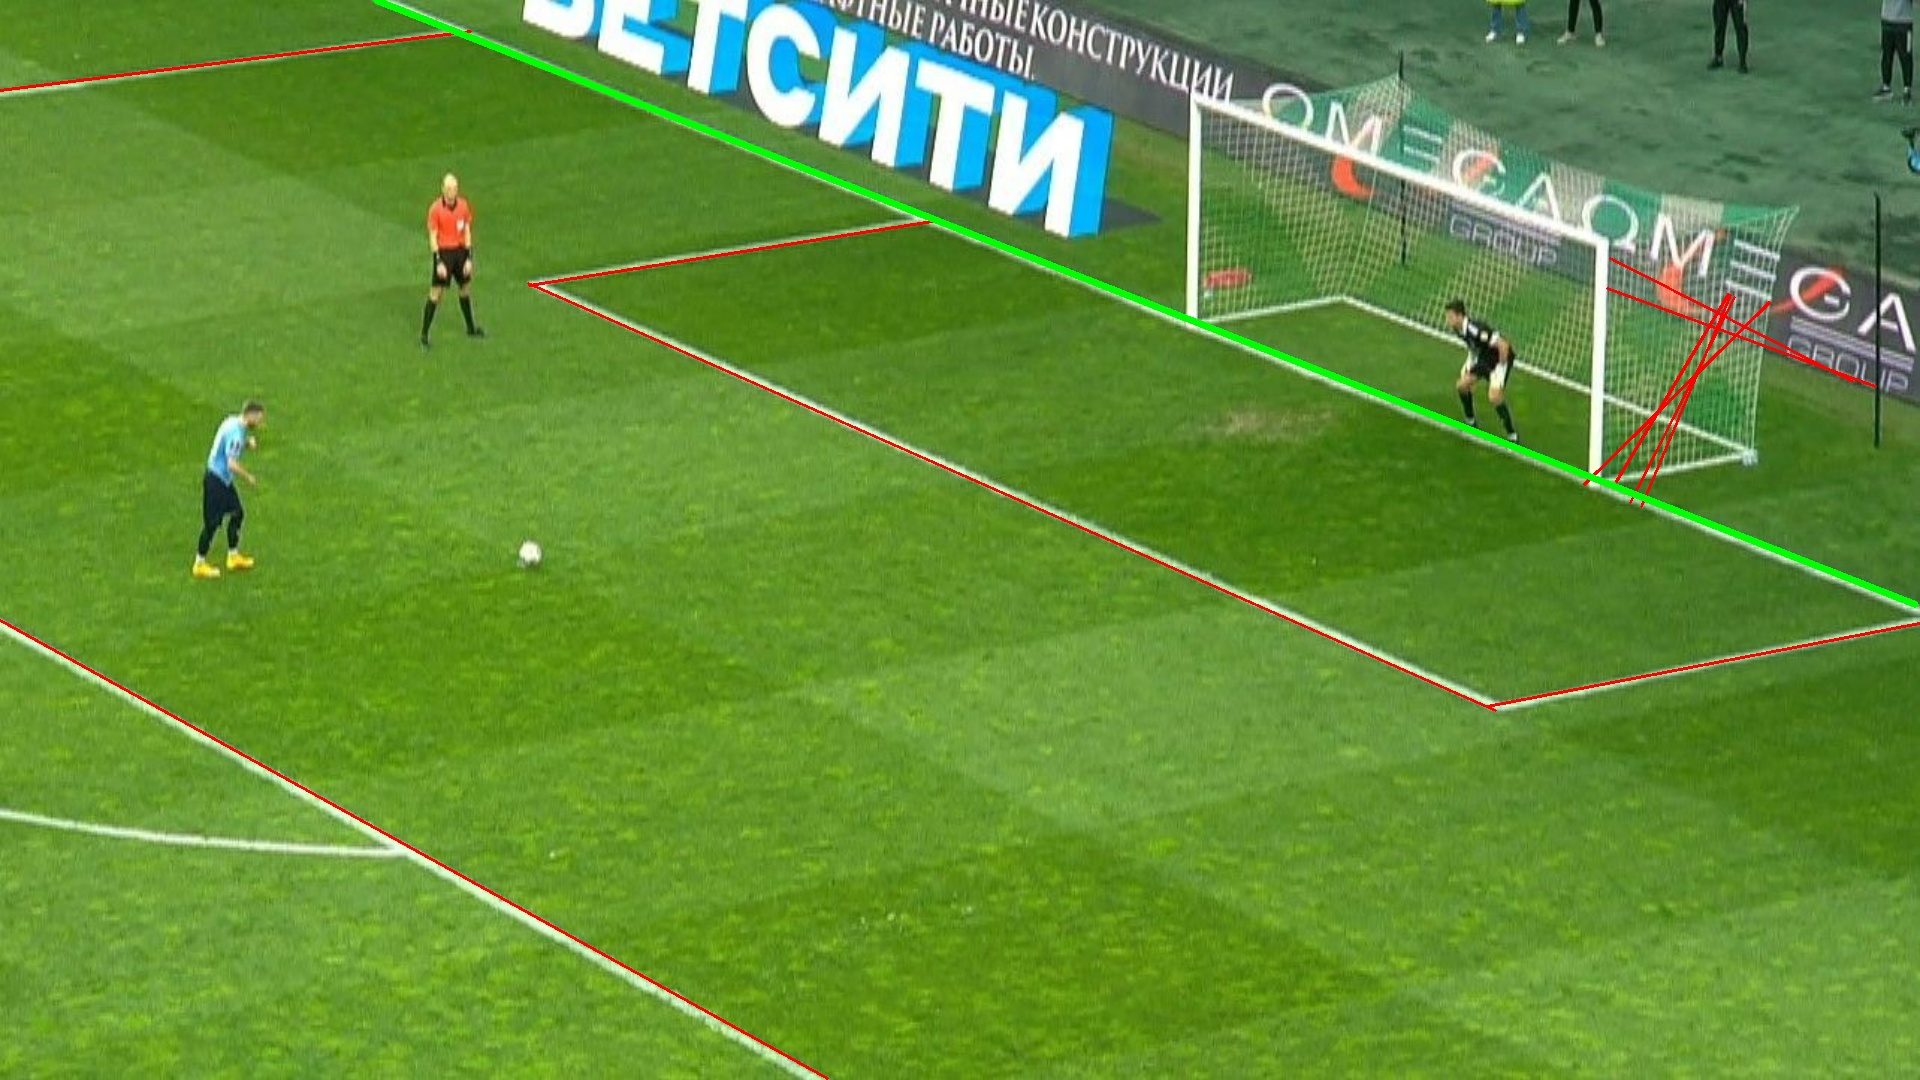
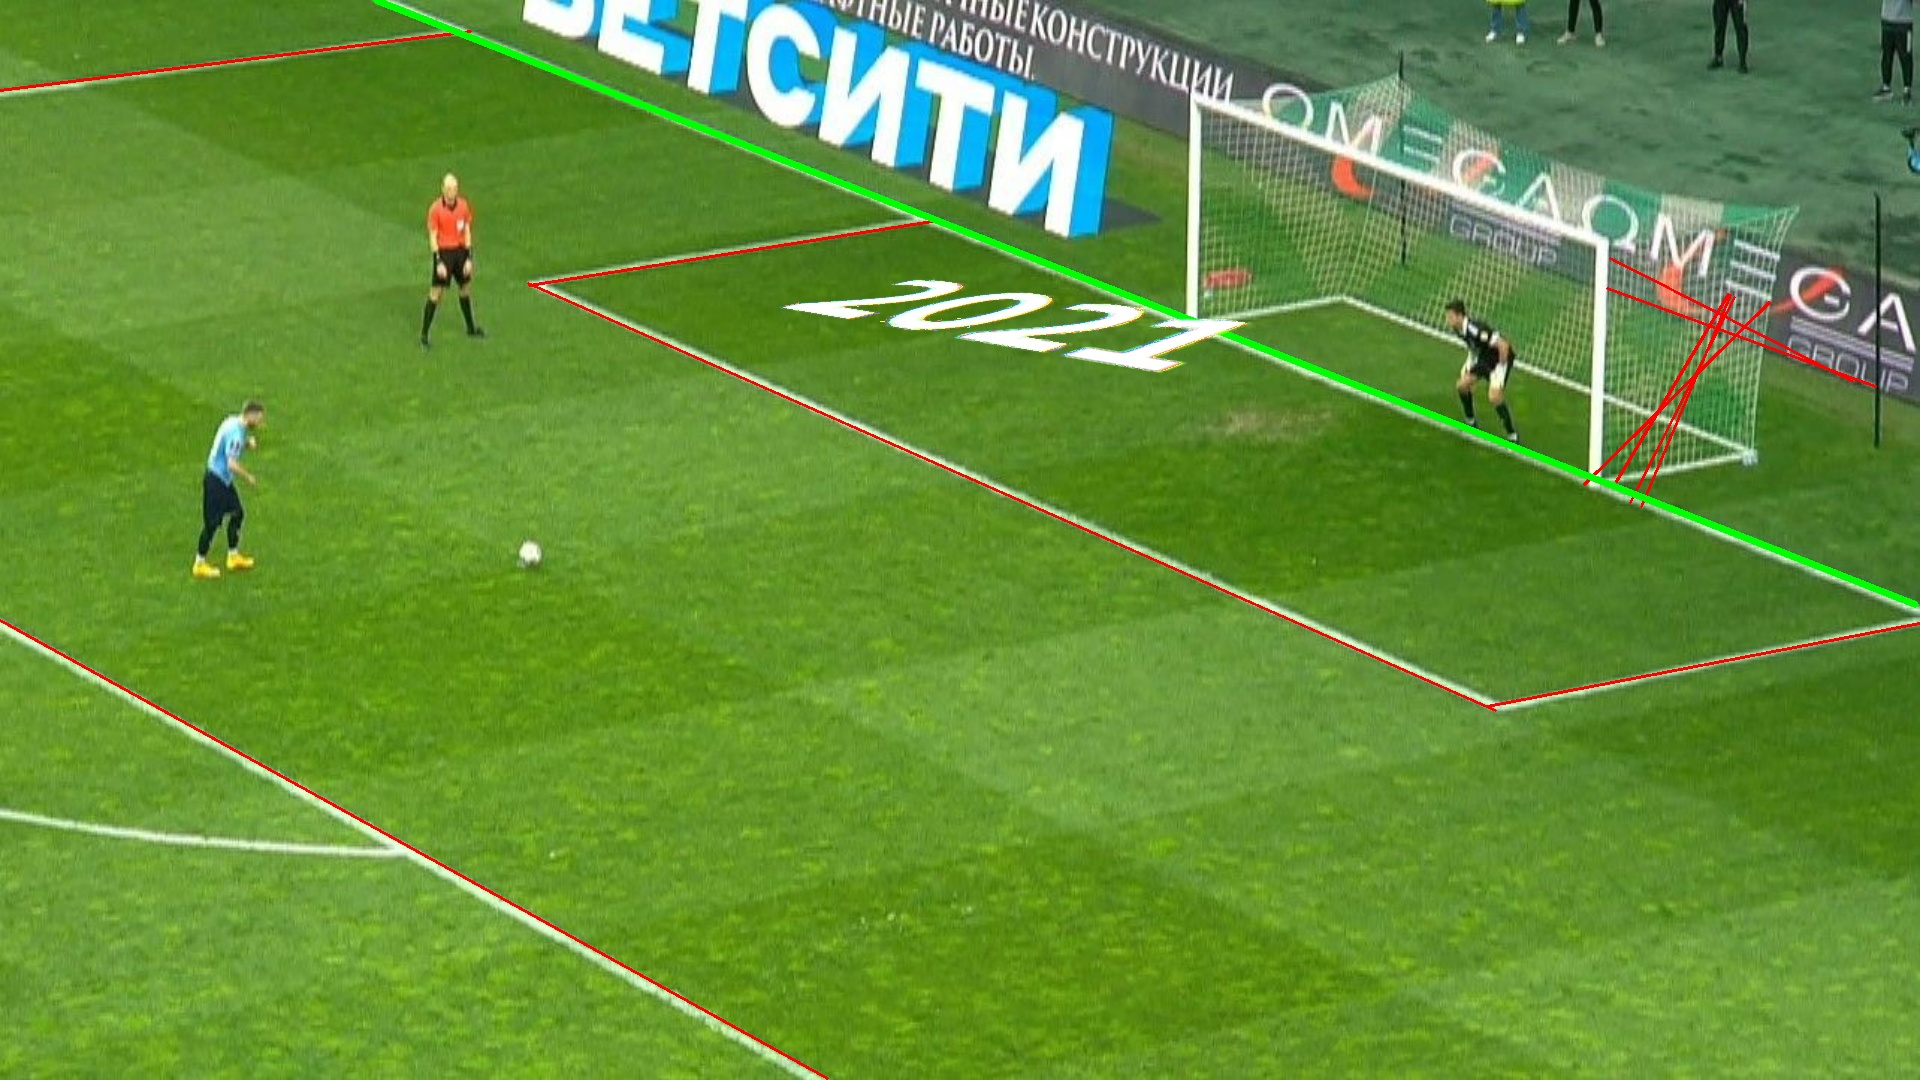
Fix

Changed region(s): [[0.4062, 0.2444, 0.6562, 0.3667]]

diff --git a/filter.py b/filter.py
@@ -2,6 +2,7 @@ import cv2 as cv
 import numpy as np
 import matplotlib.pyplot as plt
 from sklearn.cluster import DBSCAN
+from transform import add_text
 import os
 
 
@@ -176,11 +177,12 @@ class ImageHolder:
         # print(total_points_sorted)
 
         index_max_x_lines = 0
+        self.index_max_x_lines = index_max_x_lines
         max_lines = 0
         max_len = 0
         a, b = 0, 0
         for i, (a_, b_, [x1, y1, x2, y2], len_, x_lines) in enumerate(total_points_sorted_crop):
-            if (x_lines > max_lines or \
+            if (x_lines > max_lines or
                     (x_lines == max_lines and (((a < 0 and a_ < 0) and b_ < b) or ((a > 0 and a_ > 0) and b_ > b)))) \
                     and len_ > 0.8 * max_len:
                 a, b = a_, b_
@@ -191,6 +193,49 @@ class ImageHolder:
 
         a, b, [x1, y1, x2, y2], len_, x_lines = total_points_sorted_crop[index_max_x_lines]
         cv.line(self.dst_img, (x1, y1), (x2, y2), (0, 255, 0), 5)
+
+        # print(total_points_sorted)
+
+        # 2D proection
+        cross_lines = []
+        eps_ = 50
+        while len(cross_lines) < 2 and eps > 0:
+            cross_lines = []
+            for a, b, [x1, y1, x2, y2], len_, x_lines in total_points_sorted:
+                a_ = np.tan(total_points_sorted_crop[index_max_x_lines][0] / 180)
+                b_ = total_points_sorted_crop[index_max_x_lines][1]
+                x1_, y1_, x2_, y2_ = total_points_sorted_crop[index_max_x_lines][2]
+                if a * total_points_sorted_crop[index_max_x_lines][0] < 0 and \
+                        (abs(int(a_ * x1 + b_) - y1) < eps or
+                         abs(int(a_ * x2 + b_) - y2) < eps) and \
+                        x_lines == 1 and abs(y2 - y2_) > eps_ and abs(y2 - y1_) > eps_:
+                    cross_lines += [[a, b, [x1, y1, x2, y2], len_, x_lines]]
+            eps_ -= 1
+        # print(cross_lines)
+
+        eps = 10
+        import copy
+        cross_lines_ = copy.deepcopy(cross_lines)
+        # print(cross_lines)
+        if len(cross_lines) > 1:
+            cross_lines = cross_lines_
+            while len(cross_lines) != 2 and eps < 200:
+                for i in range(1, len(cross_lines)):
+                    a, b, [x1, y1, x2, y2], len_, x_lines = cross_lines[i]
+                    if abs(len_ - cross_lines[i-1][3]) < eps:
+                        cross_lines = cross_lines[i-1:i+1]
+                        break
+                eps += 10
+        # print(cross_lines)
+        if len(cross_lines) == 2:
+            a1, a2 = cross_lines[0][0], cross_lines[1][0]
+            if a1 < 0 and cross_lines[0][2][0] > cross_lines[1][2][0]:
+                cross_lines.reverse()
+            x1, y1, x2, y2 = cross_lines[0][2]
+            x3, y3, x4, y4 = cross_lines[1][2]
+            self.dst_img = add_text(image=self.dst_img, im_pts=[[x1, y1], [x2, y2], [x3, y3], [x4, y4]],
+                                    zone=1, draw_lines=False)
+        # print(cross_lines)
 
         self.save_image()
         return total_points_sorted, self.dst_img

diff --git a/transform.py b/transform.py
@@ -1,0 +1,39 @@
+import cv2 as cv
+import numpy as np
+
+
+def add_text(image: np.array, im_pts=[[783, 501], [1021, 464], [1647, 715], [1909, 661]],
+             zone=1, draw_lines=False):
+    # image - photo of field
+    # im_pts - 4 points of rectangle
+    # zone - 1: gate rectangle
+    # zone - 2: shtrafnaya rectangle
+    # draw_lines - drawing field lines on image (if False - only words will be drawn)
+
+    field = cv.imread('field.png', cv.IMREAD_COLOR)
+    words = cv.imread('words.png', cv.IMREAD_COLOR)
+
+    gate_pts = [[1063, 286], [1135, 286], [1063, 510], [1135, 510]]
+    shtraf_pts = [[920, 150], [1135, 150], [920, 646], [1135, 646]]
+
+    if (zone == 1):
+        fld_pts = gate_pts
+    if (zone == 2):
+        fld_pts = shtraf_pts
+
+    # for i in range(4):
+    #     cv.line(image, (im_pts[i][0], im_pts[i][1]), (im_pts[i][0], im_pts[i][1]), (i * 64, i * 64, i * 64), thickness=10)
+    #     cv.line(field, (fld_pts[i][0], fld_pts[i][1]), (fld_pts[i][0], fld_pts[i][1]), (i * 64, i * 64, i * 64),
+    #             thickness=10)
+
+    dst_pts = np.float32(im_pts).reshape(-1, 1, 2)
+    src_pts = np.float32(fld_pts).reshape(-1, 1, 2)
+    matrix = (cv.findHomography(src_pts, dst_pts, cv.RANSAC, 5.0)[0])
+    words_t = cv.warpPerspective(src=words, M=matrix, dsize=image.shape[:2][::-1])
+    field_t = cv.warpPerspective(src=field, M=matrix, dsize=image.shape[:2][::-1])
+    if (not draw_lines):
+        words_t = words_t - field_t
+
+    # cv.imshow("1.png", cv.bitwise_or(image, words_t))
+
+    return cv.bitwise_or(image, words_t)

diff --git a/main.py b/main.py
@@ -21,24 +21,3 @@ if __name__ == "__main__":
     stack = []
     for proc in processes:
         proc.start()
-
-    #
-    # processes_finished = []
-    # while processes:
-    #     for i, proc in enumerate(processes):
-    #         if i >= multiprocessing.cpu_count():
-    #             break
-    #         if not proc.is_alive():
-    #             processes_finished += [proc]
-    #             del stack[i]
-    #             del processes[i]
-    #             stack.append()
-    #             break
-    #
-    #
-    # # print(123)
-    # if processes[0].is_alive():
-    #     print(1)
-    # while processes[0].is_alive():
-    #     pass
-    # print(123)
